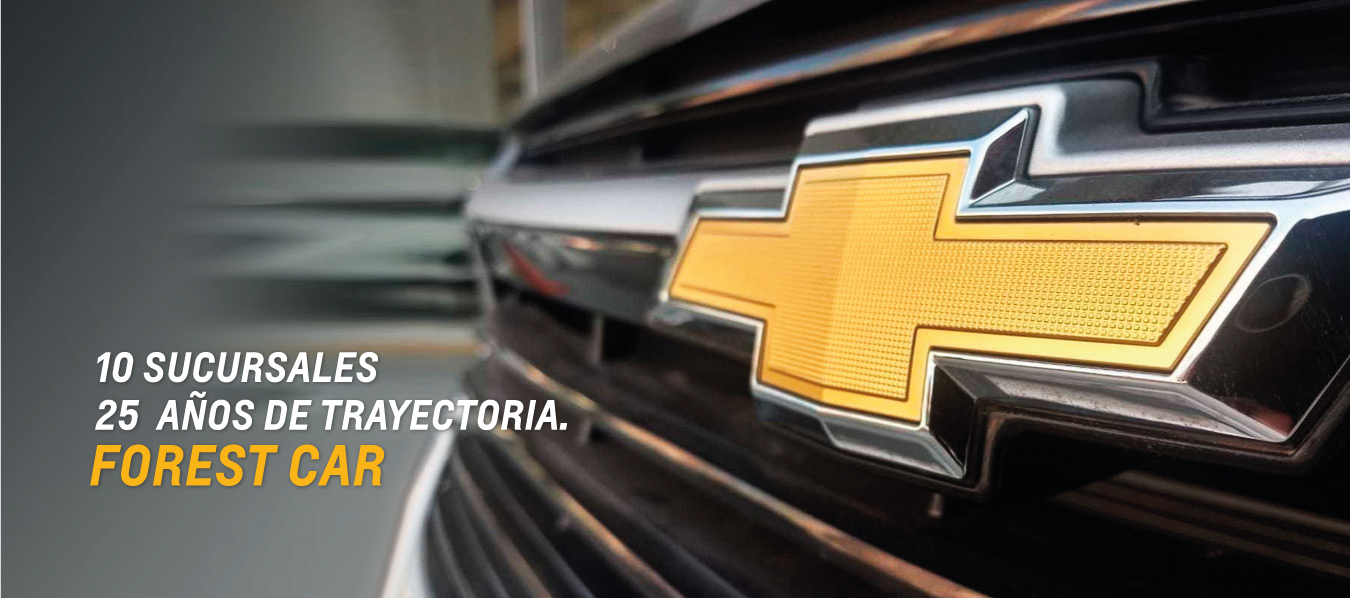
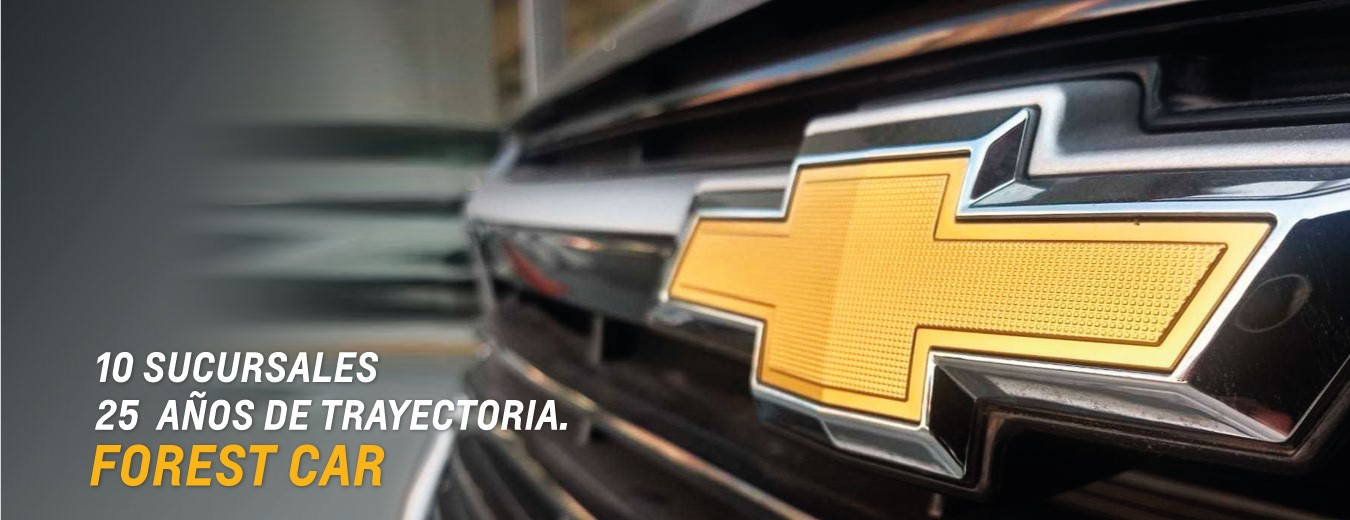
ajuste de img y donde encontrarnos

diff --git a/index.html b/index.html
@@ -21,7 +21,8 @@
   <!--navbar -->
   <nav class="navbar navbar-expand-lg bg-body-tertiary">
     <div class="container-fluid">
-      <a class="navbar-brand" href="#"><img src="img/ForestCarLogo.png" style="width: 8.5rem; margin-left: 20px ;" alt=""></a>
+      <a class="navbar-brand" href="#"><img src="img/ForestCarLogo.png"
+          style="width: 7.5rem; margin-left: 18px; margin-bottom: 3px;" alt=""></a>
       <button class="navbar-toggler" type="button" data-bs-toggle="collapse" data-bs-target="#navbarSupportedContent"
         aria-controls="navbarSupportedContent" aria-expanded="false" aria-label="Toggle navigation">
         <span class="navbar-toggler-icon"></span>
@@ -32,10 +33,10 @@
             <a class="nav-link active" aria-current="page" href="#">Inicio</a>
           </li>
           <li class="nav-item">
-            <a class="nav-link" href="formulario.html">Actualizar domicilio</a>
+            <a class="nav-link active" aria-current="page" href="#">Sobre Nosotros</a>
           </li>
           <li class="nav-item">
-            <a class="nav-link disabled" aria-disabled="true">Disabled</a>
+            <a class="nav-link" href="formulario.html" id="actualizarDomicilio">Actualizar domicilio</a>
           </li>
         </ul>
         <form class="d-flex" role="search">
@@ -46,27 +47,8 @@
     </div>
   </nav>
 
-  <!--BREADCRUMB
-  <nav aria-label="breadcrumb">
-    <ol class="breadcrumb">
-      <li class="breadcrumb-item active" aria-current="page">Home</li>
-    </ol>
-  </nav>
-  
-  <nav aria-label="breadcrumb">
-    <ol class="breadcrumb">
-      <li class="breadcrumb-item"><a href="#">Home</a></li>
-      <li class="breadcrumb-item active" aria-current="page">Library</li>
-    </ol>
-  </nav>
-  
-  <nav aria-label="breadcrumb">
-    <ol class="breadcrumb">
-      <li class="breadcrumb-item"><a href="#">Home</a></li>
-      <li class="breadcrumb-item"><a href="#">Library</a></li>
-      <li class="breadcrumb-item active" aria-current="page">Data</li>
-    </ol>
-  </nav> -->
+
+
 
   <!--CARRUSEL EPICOOOO-->
   <div id="carouselExampleIndicators" class="carousel slide">
@@ -80,13 +62,13 @@
     </div>
     <div class="carousel-inner">
       <div class="carousel-item active">
-        <img src="img/carrusel1.jpg" class="d-block w-100" alt="...">
+        <img src="img/carrusel1.jpg" height="550" class="d-block w-100" alt="...">
       </div>
       <div class="carousel-item">
-        <img src="img/carrusel2.jpg" class="d-block w-100" alt="...">
+        <img src="img/carrusel2-copia.jpg" height="550" class="d-block w-100" alt="...">
       </div>
       <div class="carousel-item">
-        <img src="img/carrusel3.jpg" class="d-block w-100" alt="...">
+        <img src="img/carrusel3.jpg" height="550" class="d-block w-100" alt="...">
       </div>
     </div>
     <button class="carousel-control-prev" type="button" data-bs-target="#carouselExampleIndicators"
@@ -103,9 +85,8 @@
   <br><br>
 
 
-  <h1 class="title" style="text-align: center;">Elegí tu Chevrolet y <b>aprovechá estos beneficios</b></h1>
-  <p style="text-align: center ; font-size: 2em;">Tasa 0% 12 y 18 meses | Entrega inmediata | Mantenimiento bonificado
-    | Beneficios en seguros</p><br><br>
+  <h1 class="title" style="text-align: center; color: #e89d32;;"><b>Forest Car</b></b></h1>
+  <p style="text-align: center ; font-size: 2em;"><b>tu Chevrolet, cerca tuyo.</b></p><br><br>
 
 
   <!--CARDSSSS-->
@@ -114,7 +95,7 @@
       <div class="row">
         <div class="col-md-4">
           <div class="card">
-            <div class="img1"><img src="img/carrusel2.jpg" alt="Bolso"></div>
+            <div class="img1"><img src="" alt="Bolso"></div>
             <div class="main-text">
               <h2>AUTO</h2>
               <p>Lorem ipsum, dolor sit amet consectetur adipisicing elit. Ex, id quis ullam cum suscipit, magni qui
@@ -129,7 +110,7 @@
         </div>
         <div class="col-md-4">
           <div class="card">
-            <div class="img1"><img src="img/carrusel2.jpg" alt="camiseta2002"></div>
+            <div class="img1"><img src="" alt="camiseta2002"></div>
             <div class="main-text">
               <h2>AUTO</h2>
               <p>Lorem ipsum, dolor sit amet consectetur adipisicing elit. Ex, id quis ullam cum suscipit, magni qui
@@ -145,7 +126,7 @@
         </div>
         <div class="col-md-4">
           <div class="card">
-            <div class="img1"><img src="img/carrusel2.jpg" alt="mochila"></div>
+            <div class="img1"><img src="" alt="mochila"></div>
 
             <div class="main-text">
               <h2>AUTO</h2>
@@ -165,7 +146,7 @@
       <div class="row">
         <div class="col-md-4">
           <div class="card">
-            <div class="img1"><img src="img/carrusel2.jpg" alt="Bolso"></div>
+            <div class="img1"><img src="" alt="Bolso"></div>
             <div class="main-text">
               <h2>AUTO</h2>
               <p>Lorem ipsum, dolor sit amet consectetur adipisicing elit. Ex, id quis ullam cum suscipit, magni qui
@@ -180,7 +161,7 @@
         </div>
         <div class="col-md-4">
           <div class="card">
-            <div class="img1"><img src="img/carrusel2.jpg" alt="camiseta2002"></div>
+            <div class="img1"><img src="" alt="camiseta2002"></div>
             <div class="main-text">
               <h2>AUTO</h2>
               <p>Lorem ipsum, dolor sit amet consectetur adipisicing elit. Ex, id quis ullam cum suscipit, magni qui
@@ -196,7 +177,7 @@
         </div>
         <div class="col-md-4">
           <div class="card">
-            <div class="img1"><img src="img/carrusel2.jpg" alt="mochila"></div>
+            <div class="img1"><img src="" alt="mochila"></div>
 
             <div class="main-text">
               <h2>AUTO</h2>
@@ -212,16 +193,17 @@
     </div>
   </div><br>
 
-  <div class="contenedor" style="background-color: black; ">
-    <div class="mapa">
-      <p style="text-align: center;"><iframe
-          src="https://www.google.com/maps/embed?pb=!1m18!1m12!1m3!1d3285.0949092396654!2d-58.46405374533928!3d-34.576464986482044!2m3!1f0!2f0!3f0!3m2!1i1024!2i768!4f13.1!3m3!1m2!1s0x95bcb5df45cc6639%3A0x4f86ffb7ac71850!2sChevrolet%20Forest%20Car%20-%20Concesionario%20Oficial!5e0!3m2!1ses!2sar!4v1715107546211!5m2!1ses!2sar"
-          width="800" height="450" style="border:0;" allowfullscreen="" loading="lazy"
-          referrerpolicy="no-referrer-when-downgrade"></iframe> </p>
+  <!--Donde estamos-->
+  <div class="contenedor" style="background-color: rgb(83, 83, 83);">
+    <div class="mapa" ><br>
+      <iframe
+        src="https://www.google.com/maps/embed?pb=!1m18!1m12!1m3!1d3285.0949092396654!2d-58.46405374533928!3d-34.576464986482044!2m3!1f0!2f0!3f0!3m2!1i1024!2i768!4f13.1!3m3!1m2!1s0x95bcb5df45cc6639%3A0x4f86ffb7ac71850!2sChevrolet%20Forest%20Car%20-%20Concesionario%20Oficial!5e0!3m2!1ses!2sar!4v1715107546211!5m2!1ses!2sar"
+        width="700" height="450" style="border:0;" allowfullscreen="" loading="lazy"
+        referrerpolicy="no-referrer-when-downgrade"></iframe>
     </div>
-    <div class="dondeEstamos">
-      <h2 style="text-align: center;"><b>DONDE ESTAMOS</b></h2>
-      <p>Lorem ipsum dolor sit amet consectetur adipisicing elit. Exercitationem nesciunt tempore ipsum ipsa error
+    <div class="texto"><br>
+      <h2 style="text-align: center; color: white;" ><b>DONDE ESTAMOS</b></h2>
+      <p style="text-align: center; color: white;">Lorem ipsum dolor sit amet consectetur adipisicing elit. Exercitationem nesciunt tempore ipsum ipsa error
         tempora assumenda, veritatis molestiae quos quibusdam suscipit, beatae adipisci laboriosam culpa tenetur dolore
         quisquam autem voluptatem!</p><br>
       <p style="font-size: 25px; color: #ABB2B9;"><b><i class="fa-sharp fa-solid fa-location-dot"></i> Av. Forest 1350,
@@ -229,14 +211,16 @@
       <p style="font-size: 25px; color: #ABB2B9;"><b><i class="fa-solid fa-phone"></i> 0800-444-2000</b></p>
       <p style="font-size: 25px; color: #ABB2B9;"><b><i class="fa-solid fa-envelope"></i> ForestCar@gmail.com</b></p>
     </div>
-  </div><br><br><br><br><br>
+  </div><br><br><br>
+  <hr>
 
 
   <!--FOOTER ULTRA MEGA EPICOOO-->
   <div class="row p-5 pb-2 bg-light">
     <div></div>
     <div class="col-xs-12 col-md-6 col-lg-3">
-      <p style="text-align: center;"><img src="img/chevrolet.png" alt="Chevrolet" width="180 px"><img src="/img/ForestCarLogo.png" width="150px" alt=""></p><br><br>
+      <p style="text-align: center;"><img src="img/chevrolet.png" alt="Chevrolet" width="180 px"><img
+          src="/img/ForestCarLogo.png" width="150px" alt=""></p><br><br>
     </div>
 
     <div class="col-xs-12 col-md-6 col-lg-3">
@@ -264,10 +248,14 @@
       <p class="text-black h5 mb-3">Contacto</p>
       <div data-aos="fade-up" data-aos-anchor-placement="center-bottom" class="aos-init aos-animate">
         <p style="font-size: 30px;">
-          <a href="#" class="links"><i class="fa-brands fa-instagram"></i></a>
-          <a href="#" class="links"><i class="fa-brands fa-youtube"></i></a>
-          <a href="#" class="links"><i class="fa-brands fa-facebook"></i></a>
-          <a href="#" class="links"><i class="fa-brands fa-linkedin"></i></a>
+          <a href="https://www.instagram.com/forestchevrolet" class="links" target="_blank"><i
+              class="fa-brands fa-instagram"></i></a>
+          <a href="https://www.youtube.com/channel/UCBsLpkpU3yuW3vJ_NSVbf6g" class="links" target="_blank"><i
+              class="fa-brands fa-youtube"></i></a>
+          <a href="https://www.facebook.com/ForestChevrolet/" class="links" target="_blank"><i
+              class="fa-brands fa-facebook"></i></a>
+          <a href="https://www.linkedin.com/company/forestcar-chevrolet" class="links" target="_blank"><i
+              class="fa-brands fa-linkedin"></i></a>
         </p>
         <!--<div class="mb-2 ">
           <a class="text-black text-decoration-none" href="https://www.instagram.com/" target="_blank"><i

diff --git a/styles/styles.css b/styles/styles.css
@@ -3,18 +3,40 @@
     margin: 0;
 }
 
-
-.contenedor{
-    padding-top: 20px;
+.contenedor {
     display: flex;
+    flex-direction: column;
 }
 
-.mapa{
-    margin: 0px 15px;
+.mapa, .texto {
+    width: 100%;
+    margin-bottom: 20px;
 }
 
-.dondeEstamos{
-    color: white;
+@media screen and (min-width: 768px) {
+    .contenedor {
+        flex-direction: row;
+    }
+
+    .mapa {
+        width: 50%;
+        margin-bottom: 0;
+        margin-right: 20px;
+    }
+
+    .texto {
+        width: 50%;
+    }
+}
+
+@media screen and (max-width: 767px) {
+    .mapa {
+        max-width: 100%; /* Establecemos un ancho máximo para el contenedor del mapa en dispositivos móviles */
+    }
+    
+    .mapa iframe {
+        max-width: 100%; /* Establecemos un ancho máximo para el mapa dentro del iframe en dispositivos móviles */
+    }
 }
 
 .links{

diff --git a/formulario.html b/formulario.html
@@ -39,7 +39,6 @@
     </nav>
 
     <p style="text-align: center;">
-
     <iframe
         src="https://docs.google.com/forms/d/e/1FAIpQLScAszgeq-pJ0omWrpUrntd-Km-Ee_lz1C7KwiGQ-5_7F0HOHQ/viewform?embedded=true"
         width="700" height="800" frameborder="0" marginheight="0" marginwidth="0" >Cargando…</iframe>
